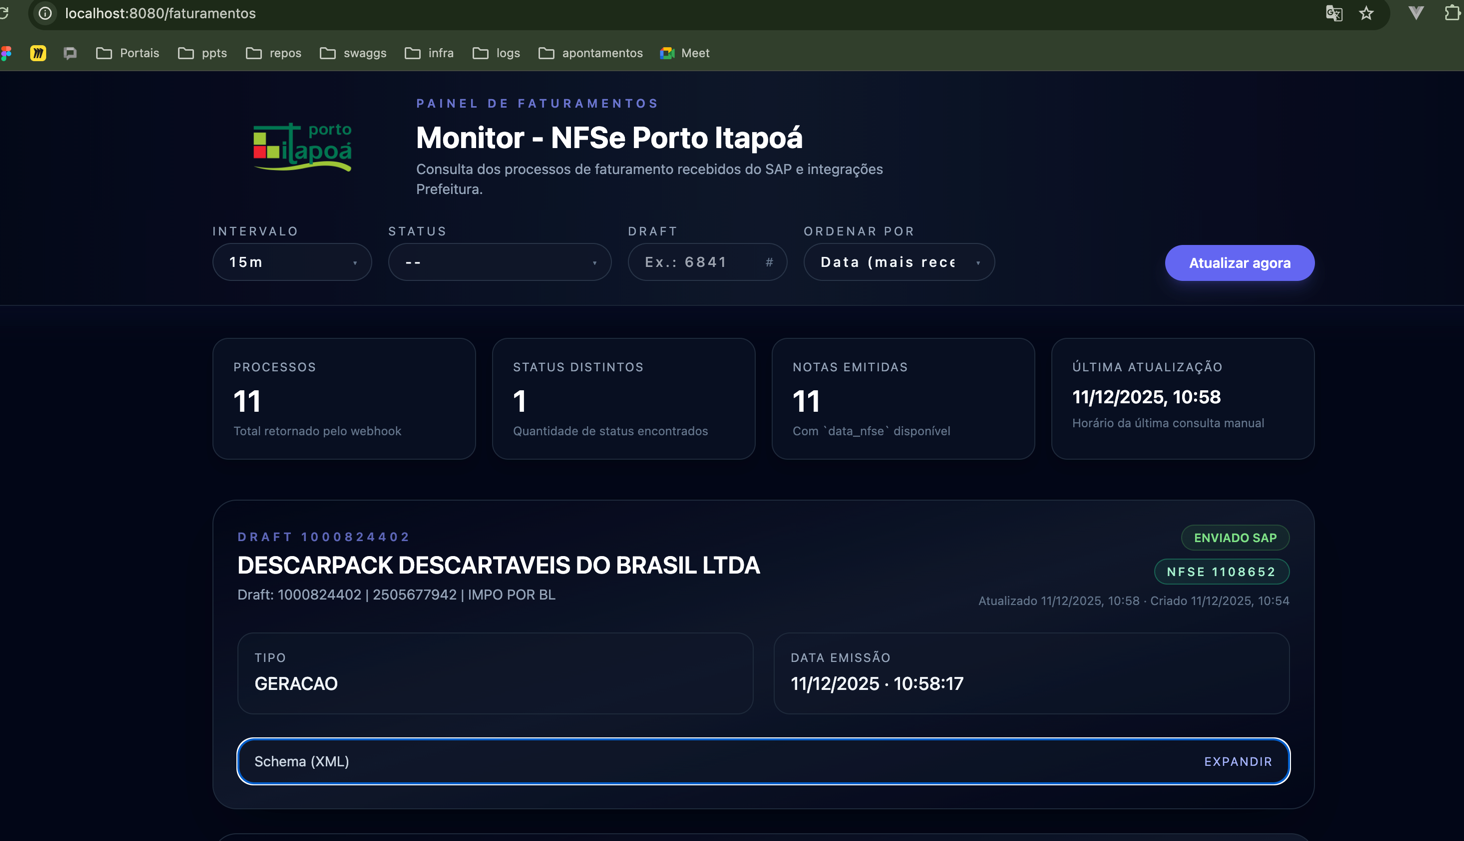
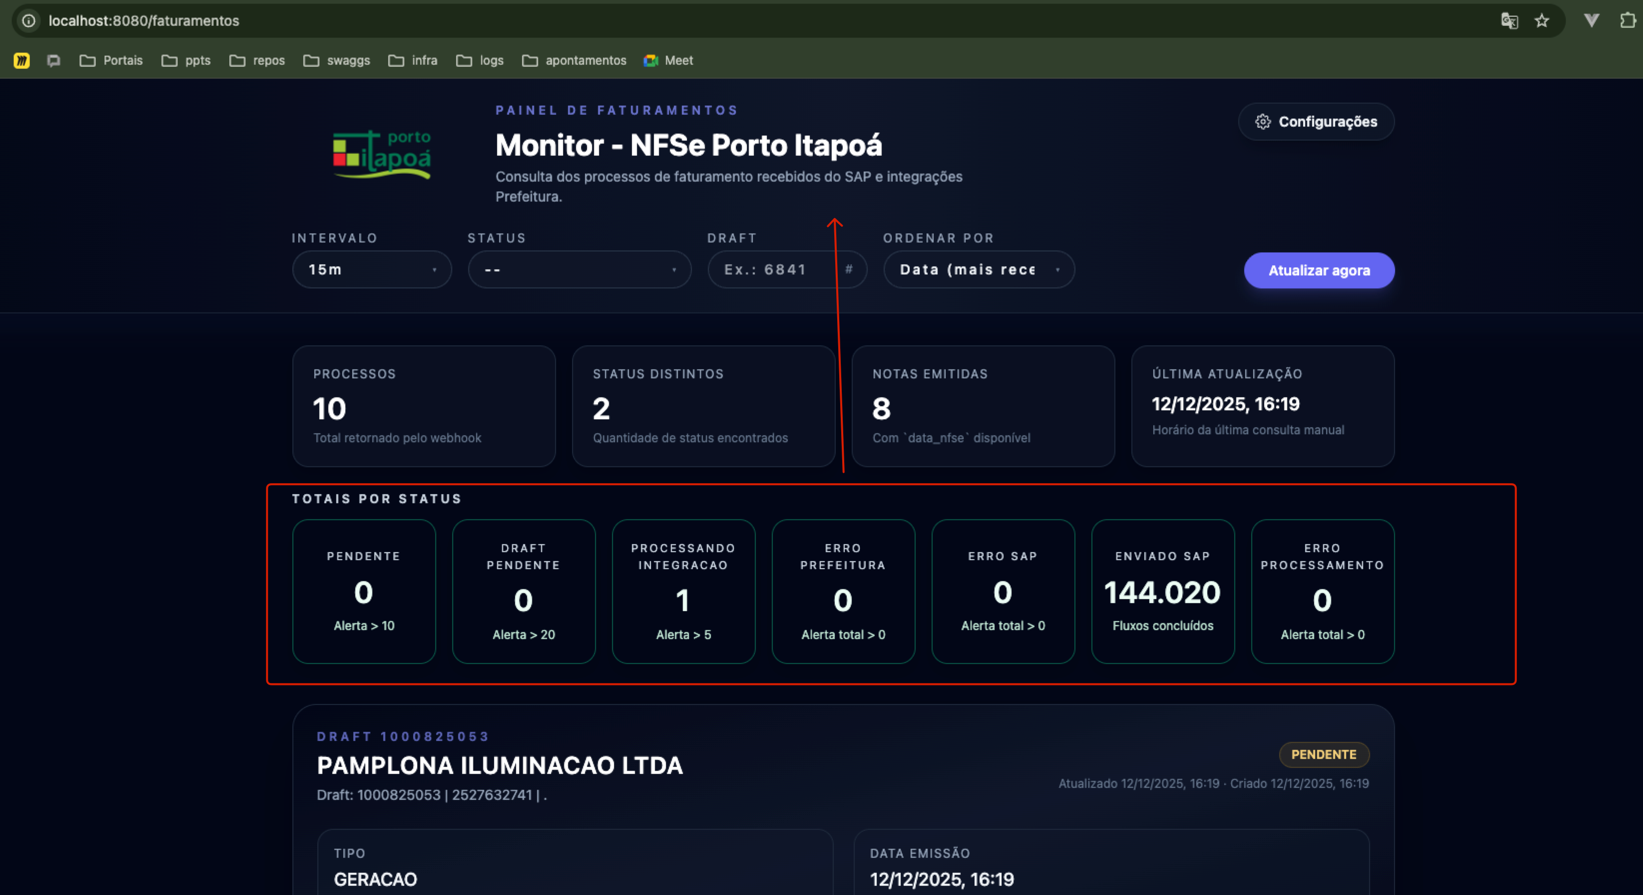
Melhoria totais

diff --git a/pages/FaturamentosPage.tsx b/pages/FaturamentosPage.tsx
@@ -252,24 +252,25 @@ const totalStatusClasses = (
   animating: boolean
 ): string => {
   const base =
-    'rounded-2xl border p-5 shadow-lg shadow-black/15 backdrop-blur flex flex-col items-center gap-2 justify-center min-h-[130px] transition text-center';
+    'relative overflow-hidden rounded-2xl border p-5 shadow-lg shadow-black/15 backdrop-blur flex flex-col items-center gap-2 justify-center min-h-[130px] transition text-center';
   const safeValue = typeof adjustedValue === 'number' ? adjustedValue : 0;
 
   const warnStatuses: StatusTotalOption[] = ['PENDENTE', 'DRAFT_PENDENTE', 'PROCESSANDO_INTEGRACAO'];
   const errorStatuses: StatusTotalOption[] = ['ERRO_PREFEITURA', 'ERRO_SAP', 'ERRO_PROCESSAMENTO'];
 
   const isAlert = safeValue > config.alertThreshold;
+  const loadingClasses = animating ? 'animate-pulse-soft totals-card-sheen' : '';
 
   if (isAlert && errorStatuses.includes(status)) {
-    return `${base} ${animating ? 'animate-pulse-soft' : ''} border-red-500/50 bg-red-500/12 text-red-50 hover:border-red-400/70`;
+    return `${base} ${loadingClasses} border-red-500/50 bg-red-500/12 text-red-50 hover:border-red-400/70`;
   }
 
   if (isAlert && warnStatuses.includes(status)) {
-    return `${base} ${animating ? 'animate-pulse-soft' : ''} border-amber-400/45 bg-amber-400/12 text-amber-50 hover:border-amber-300/70`;
+    return `${base} ${loadingClasses} border-amber-400/45 bg-amber-400/12 text-amber-50 hover:border-amber-300/70`;
   }
 
   // Within safe range -> verde
-  return `${base} ${animating ? 'animate-pulse-soft' : ''} border-emerald-500/45 bg-emerald-500/12 text-emerald-50 hover:border-emerald-300/70`;
+  return `${base} ${loadingClasses} border-emerald-500/45 bg-emerald-500/12 text-emerald-50 hover:border-emerald-300/70`;
 };
 
 const subtitleByStatus = (status: StatusTotalOption, config: StatusConfig): string => {
@@ -1104,11 +1105,11 @@ const FaturamentosPage: React.FC = () => {
 
   return (
     <div className="min-h-screen bg-slate-950 text-slate-100">
-      <header className="border-b border-slate-800/80 bg-gradient-to-r from-slate-950 via-slate-900/95 to-slate-950 shadow-[0_12px_28px_rgba(8,15,40,0.6)] backdrop-blur-sm">
-        <div className="mx-auto flex w-full max-w-6xl flex-col gap-6 px-6 py-6">
-          <div className="flex flex-col gap-4 md:flex-row md:items-center md:justify-between">
-            <div className="flex flex-col gap-4 md:flex-row md:items-center md:gap-6">
-              <img
+	      <header className="border-b border-slate-800/80 bg-gradient-to-r from-slate-950 via-slate-900/95 to-slate-950 shadow-[0_12px_28px_rgba(8,15,40,0.6)] backdrop-blur-sm">
+	        <div className="mx-auto flex w-full max-w-6xl flex-col gap-6 px-6 py-6">
+	          <div className="flex flex-col gap-4 md:flex-row md:items-center md:justify-between">
+	            <div className="flex flex-col gap-4 md:flex-row md:items-center md:gap-6">
+	              <img
                 src="https://www.portoitapoa.com/wp-content/uploads/2020/10/logo-grande-1.png"
                 alt="Porto Itapoá"
                 className="h-14 w-full max-w-[180px] object-contain md:h-16"
@@ -1129,14 +1130,56 @@ const FaturamentosPage: React.FC = () => {
               className="inline-flex items-center gap-2 self-start rounded-full border border-slate-800 bg-slate-900/70 px-4 py-2 text-sm font-semibold text-slate-100 shadow-lg shadow-black/20 transition hover:border-indigo-400 hover:text-white"
             >
               <GearIcon className="h-4 w-4" />
-              Configurações
-            </button>
-          </div>
+	              Configurações
+	            </button>
+	          </div>
 
-          <div className="flex flex-col gap-4 md:flex-row md:items-end md:justify-between">
-            <div className="flex flex-wrap items-center gap-4">
-              <label className="flex flex-col gap-1 text-xs uppercase tracking-[0.2em] text-slate-400">
-                Intervalo
+	          <section className="rounded-3xl border border-slate-800/70 bg-slate-950/40 p-4 shadow-xl shadow-black/20">
+	            <div className="mb-3 flex flex-wrap items-center justify-between gap-3">
+	              <p className="text-xs font-semibold uppercase tracking-[0.24em] text-slate-200">
+	                Totais por status
+	              </p>
+	            </div>
+	            {totalsError && (
+	              <div className="mb-4 rounded-xl border border-red-500/30 bg-red-500/10 px-4 py-3 text-xs text-red-200">
+	                {totalsError}
+	              </div>
+	            )}
+	            <div className="grid gap-4 sm:grid-cols-2 md:grid-cols-3 lg:grid-cols-4 xl:grid-cols-7">
+	              {STATUS_TOTALS.map((status) => {
+	                const value = totals[status];
+	                const config = statusConfig[status] ?? defaultStatusConfig(status);
+	                const displayed = computeDisplayTotal(value, config);
+	                const isAlert = displayed !== null && displayed > config.alertThreshold;
+	                return (
+	                  <div
+	                    key={status}
+	                    className={totalStatusClasses(status, displayed ?? null, config, totalsAnimating)}
+	                    style={
+	                      totalsAnimating
+	                        ? { animationDelay: `${STATUS_TOTALS.indexOf(status) * 90}ms` }
+	                        : undefined
+	                    }
+	                  >
+	                    <p className="text-[11px] uppercase tracking-[0.18em] text-slate-300">
+	                      {status.replace(/_/g, ' ')}
+	                    </p>
+	                    <p className="text-3xl font-semibold leading-tight">
+	                      {displayed !== null ? formatInt(displayed) : totalsLoading ? '...' : '—'}
+	                    </p>
+	                    <p className={`text-xs ${subtitleColor(status, isAlert)}`}>
+	                      {subtitleByStatus(status, config)}
+	                    </p>
+	                  </div>
+	                );
+	              })}
+	            </div>
+	          </section>
+
+	          <div className="flex flex-col gap-4 rounded-3xl border border-slate-800/70 bg-slate-950/30 p-4 shadow-lg shadow-black/15 md:flex-row md:items-end md:justify-between">
+	            <div className="flex flex-wrap items-center gap-4">
+	              <label className="flex flex-col gap-1 text-xs uppercase tracking-[0.2em] text-slate-400">
+	                Intervalo
                 <div className="relative">
                   <select
                     value={intervalFilter}
@@ -1218,21 +1261,21 @@ const FaturamentosPage: React.FC = () => {
               onClick={() => {
                 fetchData({ interval: intervalFilter, status: statusFilter, reset: true, page: 0 });
                 fetchTotals();
-              }}
-              disabled={isLoading}
-              className="inline-flex items-center justify-center rounded-full bg-indigo-500 px-6 py-2 text-sm font-semibold text-white shadow-lg shadow-indigo-500/20 transition hover:bg-indigo-400 disabled:cursor-not-allowed disabled:bg-slate-600"
-            >
-              {isLoading ? 'Atualizando...' : 'Atualizar agora'}
-            </button>
-          </div>
+	              }}
+	              disabled={isLoading}
+	              className="inline-flex w-full items-center justify-center rounded-full bg-indigo-500 px-6 py-2 text-sm font-semibold text-white shadow-lg shadow-indigo-500/20 transition hover:bg-indigo-400 disabled:cursor-not-allowed disabled:bg-slate-600 md:w-auto"
+	            >
+	              {isLoading ? 'Atualizando...' : 'Atualizar agora'}
+	            </button>
+	          </div>
         </div>
       </header>
 
-      <main className="mx-auto w-full max-w-6xl px-3 pb-16 pt-8 sm:px-4 md:px-6">
-        <section className="grid gap-4 sm:grid-cols-2 md:grid-cols-3 lg:grid-cols-4">
-          <div className="rounded-2xl border border-slate-800 bg-slate-900/55 p-5 shadow-lg shadow-black/20 backdrop-blur">
-            <p className="text-xs uppercase tracking-widest text-slate-400">Processos</p>
-            <p className="mt-2 text-3xl font-semibold text-white">{summary.totalProcessos}</p>
+	      <main className="mx-auto w-full max-w-6xl px-3 pb-16 pt-8 sm:px-4 md:px-6">
+	        <section className="grid gap-4 sm:grid-cols-2 md:grid-cols-3 lg:grid-cols-4">
+	          <div className="rounded-2xl border border-slate-800 bg-slate-900/55 p-5 shadow-lg shadow-black/20 backdrop-blur">
+	            <p className="text-xs uppercase tracking-widest text-slate-400">Processos</p>
+	            <p className="mt-2 text-3xl font-semibold text-white">{summary.totalProcessos}</p>
             <p className="mt-1 text-xs text-slate-500">Total retornado pelo webhook</p>
           </div>
           <div className="rounded-2xl border border-slate-800 bg-slate-900/55 p-5 shadow-lg shadow-black/20 backdrop-blur">
@@ -1250,55 +1293,14 @@ const FaturamentosPage: React.FC = () => {
             <p className="mt-2 text-lg font-semibold text-white">
               {lastUpdated ? formatDateTime(lastUpdated.toISOString()) : '—'}
             </p>
-            <p className="mt-1 text-xs text-slate-500">Horário da última consulta manual</p>
-          </div>
-        </section>
+	            <p className="mt-1 text-xs text-slate-500">Horário da última consulta manual</p>
+	          </div>
+	        </section>
 
-        <section className="mt-6">
-          <div className="mb-3 flex items-center justify-between gap-3">
-            <p className="text-xs font-semibold uppercase tracking-[0.24em] text-slate-300">Totais Por Status</p>
-          </div>
-          {totalsError && (
-            <div className="mb-4 rounded-xl border border-red-500/30 bg-red-500/10 px-4 py-3 text-xs text-red-200">
-              {totalsError}
-            </div>
-          )}
-          <div className="grid gap-4 sm:grid-cols-2 md:grid-cols-3 lg:grid-cols-4 xl:grid-cols-7">
-            {STATUS_TOTALS.map((status) => {
-              const value = totals[status];
-              const config = statusConfig[status] ?? defaultStatusConfig(status);
-              const displayed = computeDisplayTotal(value, config);
-              const isAlert =
-                displayed !== null && displayed > config.alertThreshold;
-              return (
-                <div
-                  key={status}
-                  className={totalStatusClasses(status, displayed ?? null, config, totalsAnimating)}
-                  style={
-                    totalsAnimating
-                      ? { animationDelay: `${STATUS_TOTALS.indexOf(status) * 90}ms` }
-                      : undefined
-                  }
-                >
-                  <p className="text-[11px] uppercase tracking-[0.18em] text-slate-300">
-                    {status.replace(/_/g, ' ')}
-                  </p>
-                  <p className="text-3xl font-semibold leading-tight">
-                    {displayed !== null ? formatInt(displayed) : totalsLoading ? '...' : '—'}
-                  </p>
-                  <p className={`text-xs ${subtitleColor(status, isAlert)}`}>
-                    {subtitleByStatus(status, config)}
-                  </p>
-                </div>
-              );
-            })}
-          </div>
-        </section>
-
-        <section className="mt-10">
-          {error && (
-            <div className="rounded-2xl border border-red-500/30 bg-red-500/10 p-6 text-sm text-red-200">
-              {error}
+	        <section className="mt-6">
+	          {error && (
+	            <div className="rounded-2xl border border-red-500/30 bg-red-500/10 p-6 text-sm text-red-200">
+	              {error}
             </div>
           )}
 

diff --git a/pages/animations.css b/pages/animations.css
@@ -1,15 +1,52 @@
 @keyframes pulse-soft {
   0% {
-    box-shadow: 0 0 0 0 rgba(94, 234, 212, 0.35);
+    box-shadow: 0 0 0 0 rgba(255, 255, 255, 0.16);
   }
   50% {
-    box-shadow: 0 0 0 8px rgba(94, 234, 212, 0.08);
+    box-shadow: 0 0 0 6px rgba(255, 255, 255, 0.04);
   }
   100% {
-    box-shadow: 0 0 0 0 rgba(94, 234, 212, 0.0);
+    box-shadow: 0 0 0 0 rgba(255, 255, 255, 0.0);
   }
 }
 
 .animate-pulse-soft {
   animation: pulse-soft 1.2s ease-in-out infinite;
+}
+
+@keyframes totals-card-sheen {
+  0% {
+    transform: translateX(-62%) rotate(18deg);
+    opacity: 0;
+  }
+  25% {
+    opacity: 0.22;
+  }
+  60% {
+    opacity: 0.10;
+  }
+  100% {
+    transform: translateX(62%) rotate(18deg);
+    opacity: 0;
+  }
+}
+
+.totals-card-sheen::after {
+  content: '';
+  position: absolute;
+  inset: -70%;
+  background: linear-gradient(90deg, transparent, rgba(255, 255, 255, 0.12), transparent);
+  transform: translateX(-62%) rotate(18deg);
+  animation: totals-card-sheen 1.35s ease-in-out infinite;
+  pointer-events: none;
+}
+
+@media (prefers-reduced-motion: reduce) {
+  .animate-pulse-soft {
+    animation: none !important;
+  }
+  .totals-card-sheen::after {
+    animation: none !important;
+    opacity: 0 !important;
+  }
 }

diff --git a/build.js b/build.js
@@ -1,3 +1,4 @@
+require('dotenv').config();
 const esbuild = require('esbuild');
 const fs = require('fs/promises');
 const path = require('path');
@@ -51,6 +52,14 @@ async function build() {
   
   // 2. Change the script source from the .tsx file to the bundled .js file
   html = html.replace('src="/index.tsx"', 'src="/index.js"');
+
+  // 3. Ensure bundled CSS is loaded (esbuild outputs dist/index.css)
+  if (!html.includes('href="/index.css"')) {
+    html = html.replace(
+      /<\/head>/,
+      '    <link rel="stylesheet" href="/index.css" />\n  </head>'
+    );
+  }
   
   await fs.writeFile(path.join(distDir, 'index.html'), html);
 
